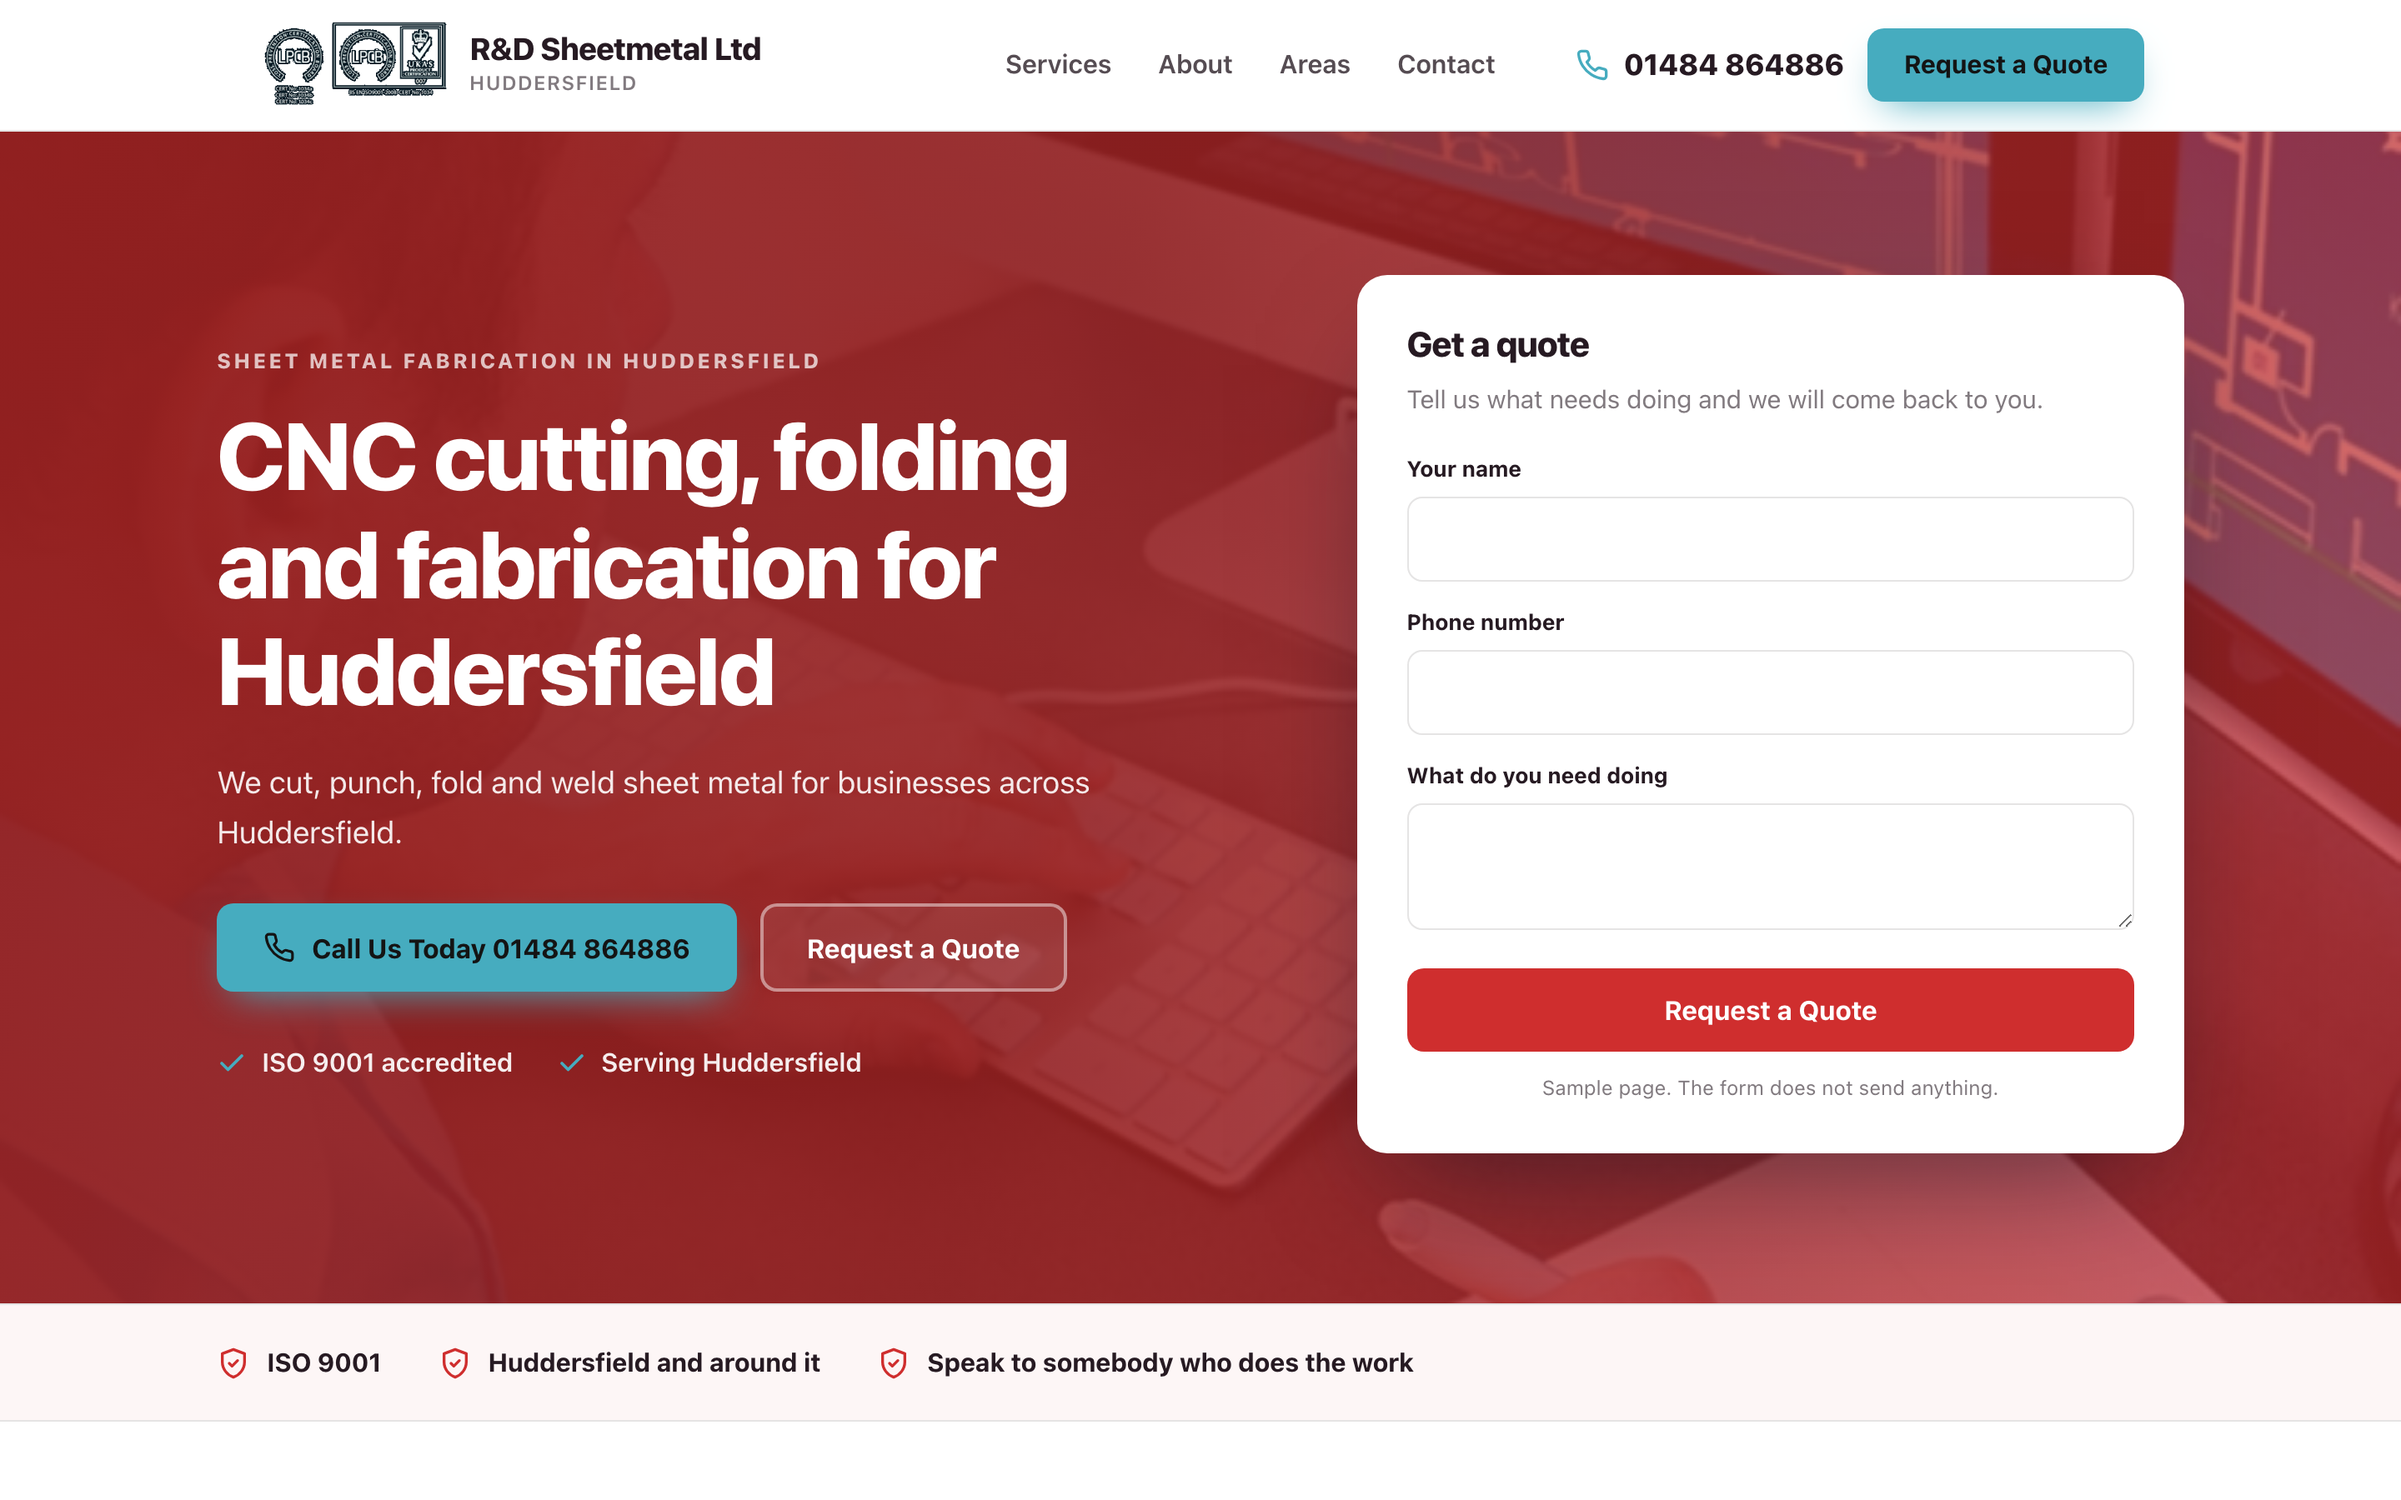
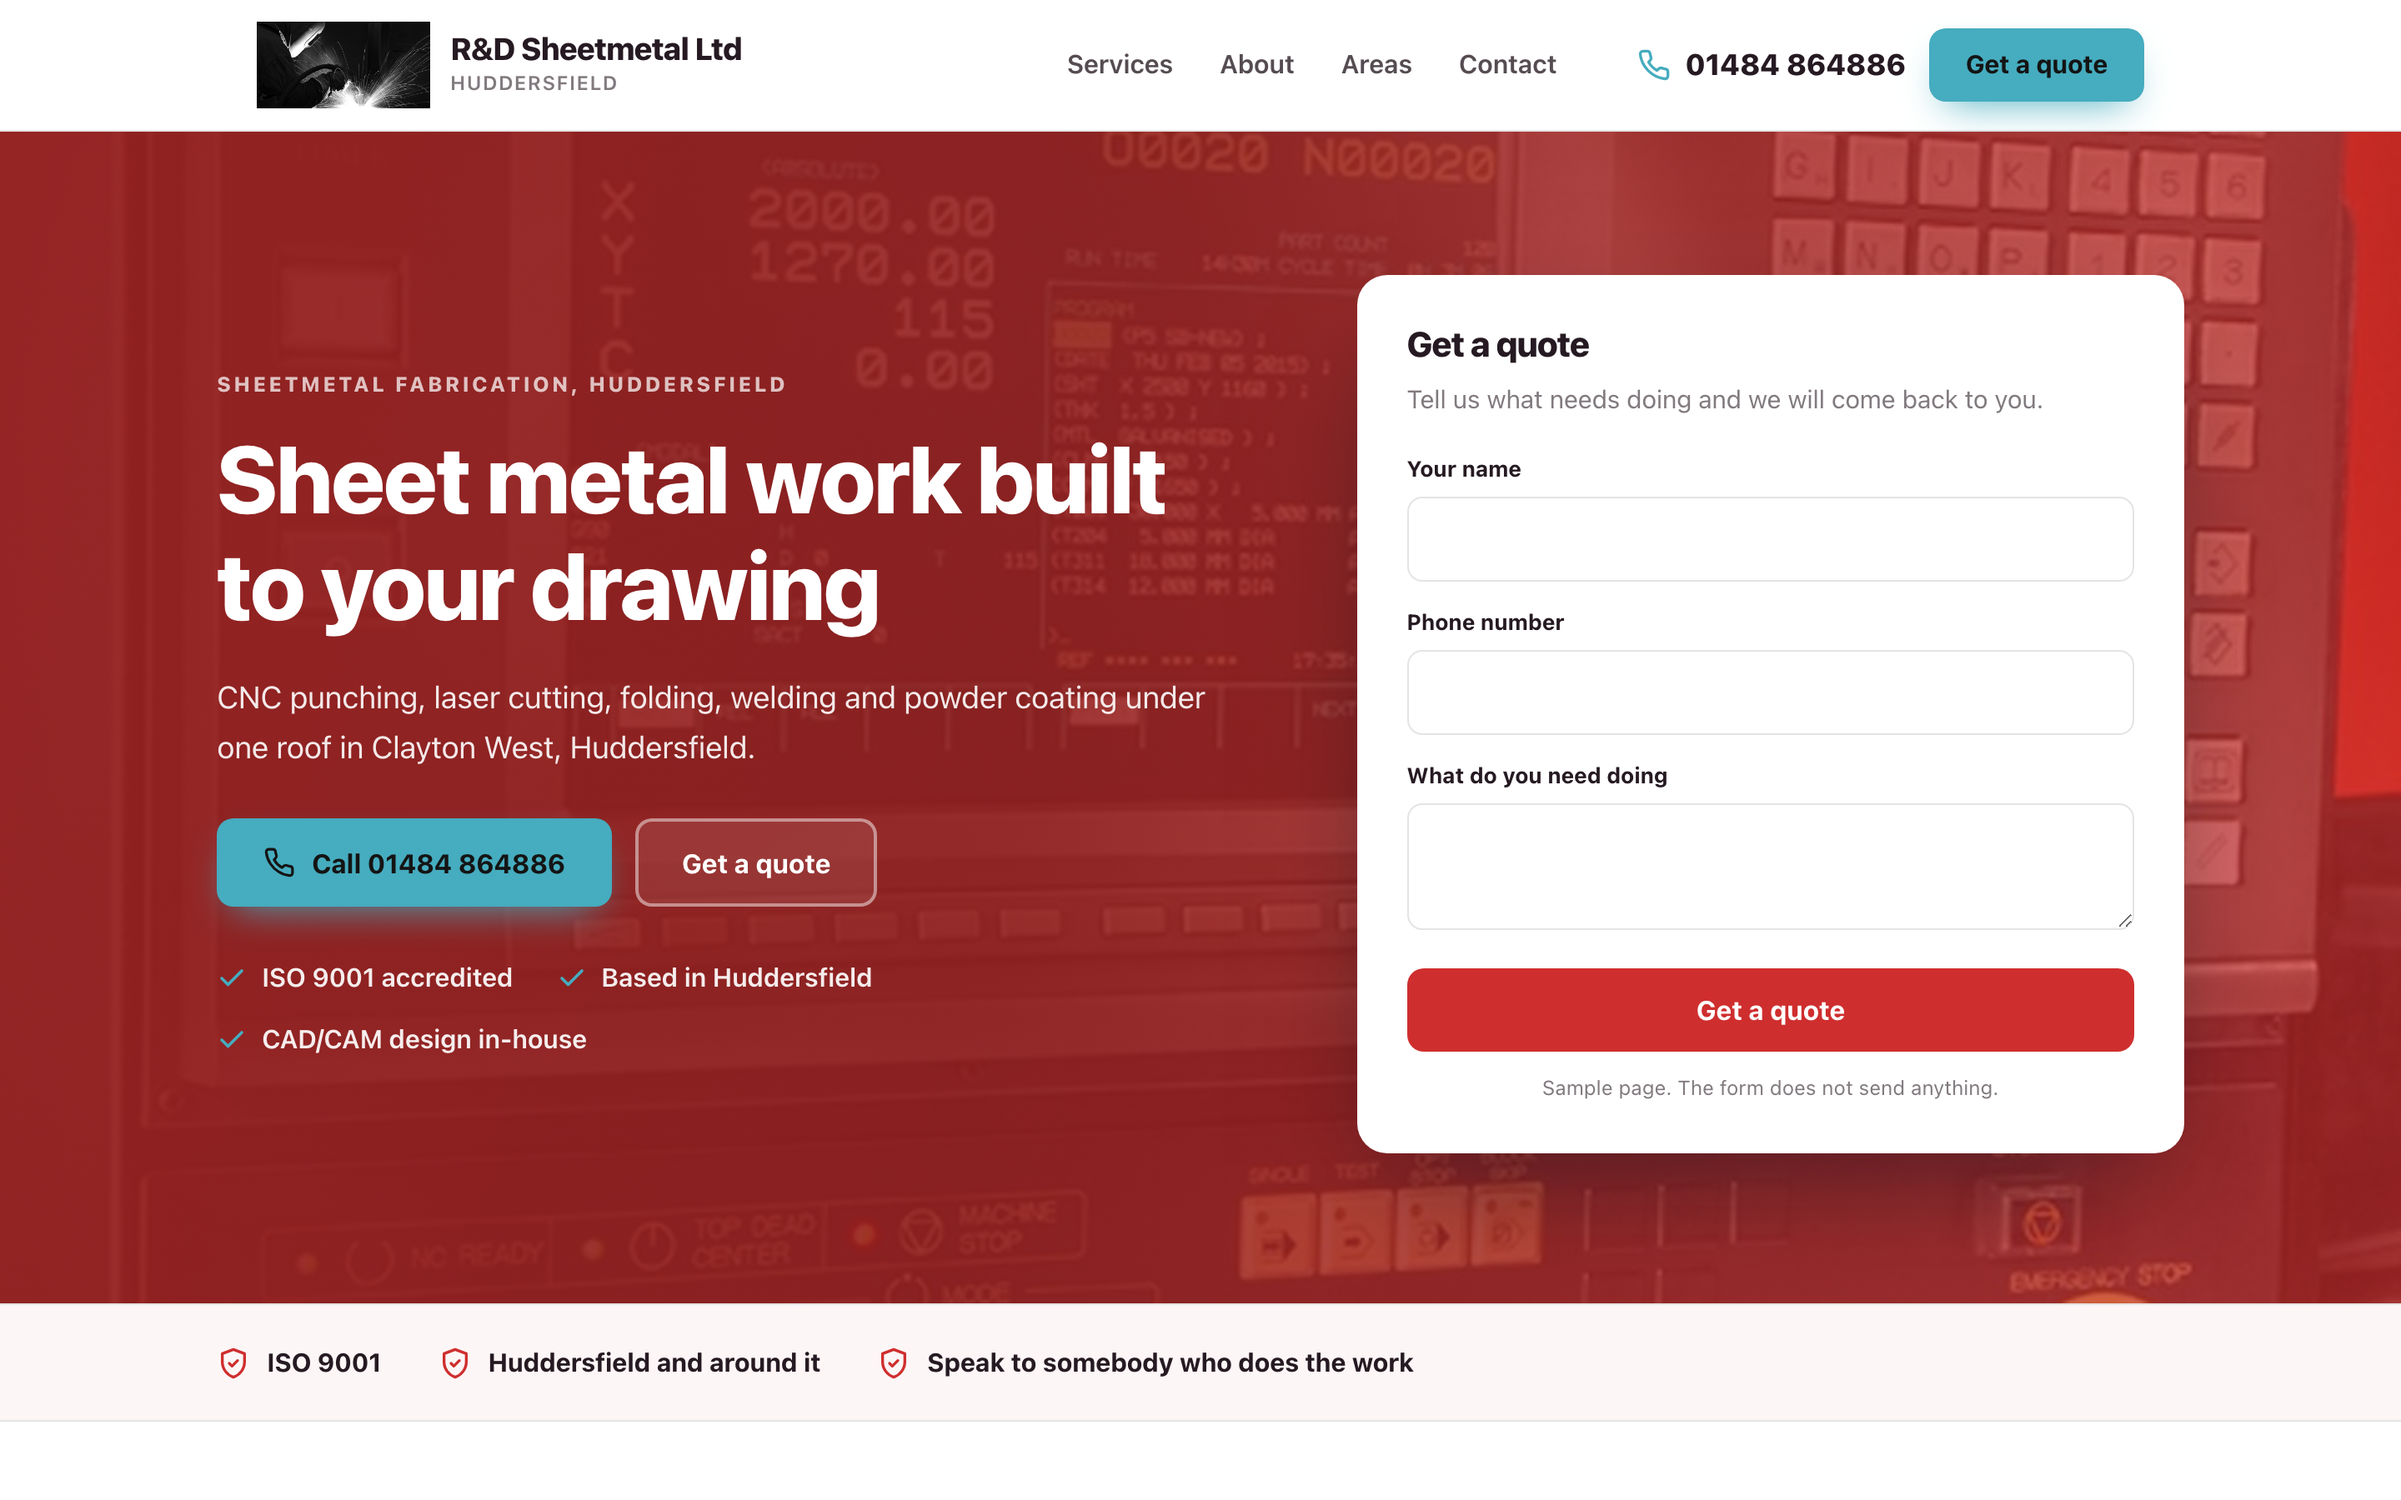
Sample homepage for R&D Sheetmetal Ltd

diff --git a/docs/c44731965e/index.html b/docs/c44731965e/index.html
@@ -4,14 +4,15 @@
 <meta charset="utf-8">
 <meta name="viewport" content="width=device-width, initial-scale=1">
 <meta name="robots" content="noindex,nofollow">
+<meta name="aso-build" content="">
 <title>R&amp;D Sheetmetal Ltd sample homepage</title>
-<meta name="description" content="We cut, punch, fold and weld sheet metal for businesses across Huddersfield.">
+<meta name="description" content="CNC punching, laser cutting, folding, welding and powder coating under one roof in Clayton West, Huddersfield.">
 <link rel="canonical" href="https://markygff.github.io/aso-mockups/c44731965e/">
 <meta property="og:type" content="website">
 <meta property="og:title" content="R&amp;D Sheetmetal Ltd sample homepage">
-<meta property="og:description" content="We cut, punch, fold and weld sheet metal for businesses across Huddersfield.">
+<meta property="og:description" content="CNC punching, laser cutting, folding, welding and powder coating under one roof in Clayton West, Huddersfield.">
 <meta property="og:url" content="https://markygff.github.io/aso-mockups/c44731965e/">
-<meta property="og:image" content="https://www.randdsheetmetal.co.uk/wp-content/uploads/2014/04/CAD-Cam-Image-31-800x500_c.jpg"><style>
+<meta property="og:image" content="img/p15.jpg"><style>
 :root{
   --primary:#cf2e2e;
   --primary-dark:#952121;
@@ -52,7 +53,8 @@ p{margin:0}
 .nav{display:flex;gap:28px;margin-left:auto;font-weight:600;font-size:.97rem;color:var(--ink)}
 .nav span{opacity:.78}
 .header-cta{display:flex;align-items:center;gap:14px;margin-left:28px}
-.tel{display:flex;align-items:center;gap:9px;font-weight:800;font-size:1.1rem;color:var(--ink)}
+.tel{display:flex;align-items:center;gap:9px;font-weight:800;font-size:1.1rem;
+     color:var(--ink);text-decoration:none}
 .tel svg{width:20px;height:20px;color:var(--accent)}
 .header-cta .btn{padding:12px 20px;font-size:.95rem}
 
@@ -119,7 +121,7 @@ p{margin:0}
 <header class="header">
   <div class="wrap header-in">
     <div class="brand">
-<img src="https://www.randdsheetmetal.co.uk/wp-content/themes/rand/images/LPCB.png" alt="R&amp;D Sheetmetal Ltd logo">      <div>
+<img src="img/logo.png" alt="R&amp;D Sheetmetal Ltd logo">      <div>
         <div class="brand-name">R&amp;D Sheetmetal Ltd</div>
 <div class="brand-sub">Huddersfield</div>      </div>
     </div>
@@ -127,25 +129,25 @@ p{margin:0}
       <span>Services</span><span>About</span><span>Areas</span><span>Contact</span>
     </nav>
     <div class="header-cta">
-      <span class="tel"><svg viewBox="0 0 24 24" fill="none" stroke="currentColor" stroke-width="2" stroke-linecap="round" stroke-linejoin="round" aria-hidden="true"><path d="M22 16.9v3a2 2 0 0 1-2.2 2 19.8 19.8 0 0 1-8.6-3.1 19.5 19.5 0 0 1-6-6 19.8 19.8 0 0 1-3.1-8.7A2 2 0 0 1 4.1 2h3a2 2 0 0 1 2 1.7c.1 1 .4 1.9.7 2.8a2 2 0 0 1-.5 2.1L8.1 9.9a16 16 0 0 0 6 6l1.3-1.2a2 2 0 0 1 2.1-.5c.9.3 1.8.6 2.8.7a2 2 0 0 1 1.7 2z"/></svg><span>01484 864886</span></span>
-      <span class="btn btn-accent">Request a Quote</span>
+      <a class="tel" href="tel:+441484864886"><svg viewBox="0 0 24 24" fill="none" stroke="currentColor" stroke-width="2" stroke-linecap="round" stroke-linejoin="round" aria-hidden="true"><path d="M22 16.9v3a2 2 0 0 1-2.2 2 19.8 19.8 0 0 1-8.6-3.1 19.5 19.5 0 0 1-6-6 19.8 19.8 0 0 1-3.1-8.7A2 2 0 0 1 4.1 2h3a2 2 0 0 1 2 1.7c.1 1 .4 1.9.7 2.8a2 2 0 0 1-.5 2.1L8.1 9.9a16 16 0 0 0 6 6l1.3-1.2a2 2 0 0 1 2.1-.5c.9.3 1.8.6 2.8.7a2 2 0 0 1 1.7 2z"/></svg><span>01484 864886</span></a>
+      <span class="btn btn-accent">Get a quote</span>
     </div>
   </div>
 </header>
 
 <section class="hero">
-  <div class="hero-bg"><img src="https://www.randdsheetmetal.co.uk/wp-content/uploads/2014/04/CAD-Cam-Image-31-800x500_c.jpg" alt="CAD Cam – Image 3" width="1600" height="900"></div>
+  <div class="hero-bg"><img src="img/p15.jpg" alt="Vipros control panel CNC punch" width="1600" height="900"></div>
   <div class="wrap hero-in">
     <div>
-      <p class="eyebrow">Sheet metal fabrication in Huddersfield</p>
-      <h1>CNC cutting, folding and fabrication for Huddersfield</h1>
-      <p class="hero-sub">We cut, punch, fold and weld sheet metal for businesses across Huddersfield.</p>
+      <p class="eyebrow">Sheetmetal fabrication, Huddersfield</p>
+      <h1>Sheet metal work built to your drawing</h1>
+      <p class="hero-sub">CNC punching, laser cutting, folding, welding and powder coating under one roof in Clayton West, Huddersfield.</p>
       <div class="hero-actions">
-        <span class="btn btn-accent"><svg viewBox="0 0 24 24" fill="none" stroke="currentColor" stroke-width="2" stroke-linecap="round" stroke-linejoin="round" aria-hidden="true"><path d="M22 16.9v3a2 2 0 0 1-2.2 2 19.8 19.8 0 0 1-8.6-3.1 19.5 19.5 0 0 1-6-6 19.8 19.8 0 0 1-3.1-8.7A2 2 0 0 1 4.1 2h3a2 2 0 0 1 2 1.7c.1 1 .4 1.9.7 2.8a2 2 0 0 1-.5 2.1L8.1 9.9a16 16 0 0 0 6 6l1.3-1.2a2 2 0 0 1 2.1-.5c.9.3 1.8.6 2.8.7a2 2 0 0 1 1.7 2z"/></svg>Call Us Today 01484 864886</span>
-        <span class="btn btn-ghost">Request a Quote</span>
+        <span class="btn btn-accent"><svg viewBox="0 0 24 24" fill="none" stroke="currentColor" stroke-width="2" stroke-linecap="round" stroke-linejoin="round" aria-hidden="true"><path d="M22 16.9v3a2 2 0 0 1-2.2 2 19.8 19.8 0 0 1-8.6-3.1 19.5 19.5 0 0 1-6-6 19.8 19.8 0 0 1-3.1-8.7A2 2 0 0 1 4.1 2h3a2 2 0 0 1 2 1.7c.1 1 .4 1.9.7 2.8a2 2 0 0 1-.5 2.1L8.1 9.9a16 16 0 0 0 6 6l1.3-1.2a2 2 0 0 1 2.1-.5c.9.3 1.8.6 2.8.7a2 2 0 0 1 1.7 2z"/></svg>Call 01484 864886</span>
+        <span class="btn btn-ghost">Get a quote</span>
       </div>
       <ul class="hero-bullets">
-<li><svg viewBox="0 0 24 24" fill="none" stroke="currentColor" stroke-width="2.4" stroke-linecap="round" stroke-linejoin="round" aria-hidden="true"><path d="M20 6 9 17l-5-5"/></svg><span>ISO 9001 accredited</span></li><li><svg viewBox="0 0 24 24" fill="none" stroke="currentColor" stroke-width="2.4" stroke-linecap="round" stroke-linejoin="round" aria-hidden="true"><path d="M20 6 9 17l-5-5"/></svg><span>Serving Huddersfield</span></li>      </ul>
+<li><svg viewBox="0 0 24 24" fill="none" stroke="currentColor" stroke-width="2.4" stroke-linecap="round" stroke-linejoin="round" aria-hidden="true"><path d="M20 6 9 17l-5-5"/></svg><span>ISO 9001 accredited</span></li><li><svg viewBox="0 0 24 24" fill="none" stroke="currentColor" stroke-width="2.4" stroke-linecap="round" stroke-linejoin="round" aria-hidden="true"><path d="M20 6 9 17l-5-5"/></svg><span>Based in Huddersfield</span></li><li><svg viewBox="0 0 24 24" fill="none" stroke="currentColor" stroke-width="2.4" stroke-linecap="round" stroke-linejoin="round" aria-hidden="true"><path d="M20 6 9 17l-5-5"/></svg><span>CAD/CAM design in-house</span></li>      </ul>
     </div>
     <div class="quote-card">
       <h3>Get a quote</h3>
@@ -153,7 +155,7 @@ p{margin:0}
       <div class="field"><label>Your name</label><input type="text" disabled></div>
       <div class="field"><label>Phone number</label><input type="tel" disabled></div>
       <div class="field"><label>What do you need doing</label><textarea disabled></textarea></div>
-      <span class="btn btn-primary">Request a Quote</span>
+      <span class="btn btn-primary">Get a quote</span>
       <p class="sample-note">Sample page. The form does not send anything.</p>
     </div>
   </div>
@@ -172,28 +174,28 @@ p{margin:0}
     <div class="services-head">
       <p class="eyebrow">What we do</p>
       <h2>R&amp;D Sheetmetal Ltd, Huddersfield</h2>
-      <p>We cut, punch, fold and weld sheet metal for businesses across Huddersfield.</p>
+      <p>CNC punching, laser cutting, folding, welding and powder coating under one roof in Clayton West, Huddersfield.</p>
     </div>
     <div class="grid">
       <article class="card">
         <div class="icon"><svg viewBox="0 0 24 24" fill="none" stroke="currentColor" stroke-width="2" stroke-linecap="round" stroke-linejoin="round" aria-hidden="true"><path d="M14.7 6.3a4 4 0 0 0 5.3 5.3l-8 8a3 3 0 0 1-4.2-4.2z"/><path d="m14.7 6.3 3-3"/></svg></div>
         <h3>CNC Laser Cutting</h3>
-        <p>Clean, accurate cuts in sheet metal, ready for the next stage.</p>
+        <p>Clean, accurate cuts in aluminium, mild steel and stainless steel.</p>
       </article>
       <article class="card">
         <div class="icon"><svg viewBox="0 0 24 24" fill="none" stroke="currentColor" stroke-width="2" stroke-linecap="round" stroke-linejoin="round" aria-hidden="true"><path d="M13 2 4 14h7l-1 8 9-12h-7z"/></svg></div>
-        <h3>CNC Punching</h3>
-        <p>Punched sheet metal parts cut to your drawings.</p>
+        <h3>CNC Folding</h3>
+        <p>Precision folding to your spec, ready for welding or finishing.</p>
       </article>
       <article class="card">
         <div class="icon"><svg viewBox="0 0 24 24" fill="none" stroke="currentColor" stroke-width="2" stroke-linecap="round" stroke-linejoin="round" aria-hidden="true"><path d="M3 10.5 12 3l9 7.5"/><path d="M5 9.5V21h14V9.5"/><path d="M10 21v-6h4v6"/></svg></div>
-        <h3>CNC Folding</h3>
-        <p>Folded and formed to the shapes your job needs.</p>
+        <h3>Welding and Fabrication</h3>
+        <p>Skilled fabricators building parts and assemblies to order.</p>
       </article>
       <article class="card">
         <div class="icon"><svg viewBox="0 0 24 24" fill="none" stroke="currentColor" stroke-width="2" stroke-linecap="round" stroke-linejoin="round" aria-hidden="true"><path d="M4 20 15 9"/><path d="m14 4 6 6-3 3-6-6z"/><path d="m3 15 6 6"/></svg></div>
-        <h3>Welding and Fabrication</h3>
-        <p>Skilled welding and fabrication in aluminium, mild steel and stainless steel.</p>
+        <h3>Powder Coating</h3>
+        <p>A durable finish applied in-house after fabrication.</p>
       </article>
     </div>
   </div>
